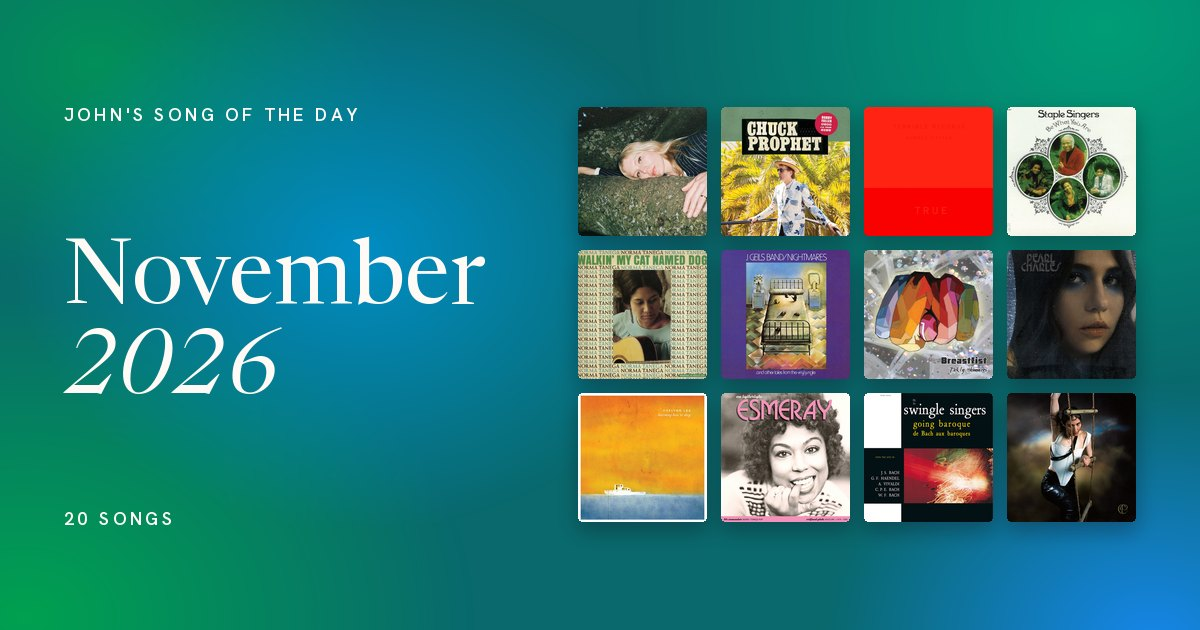
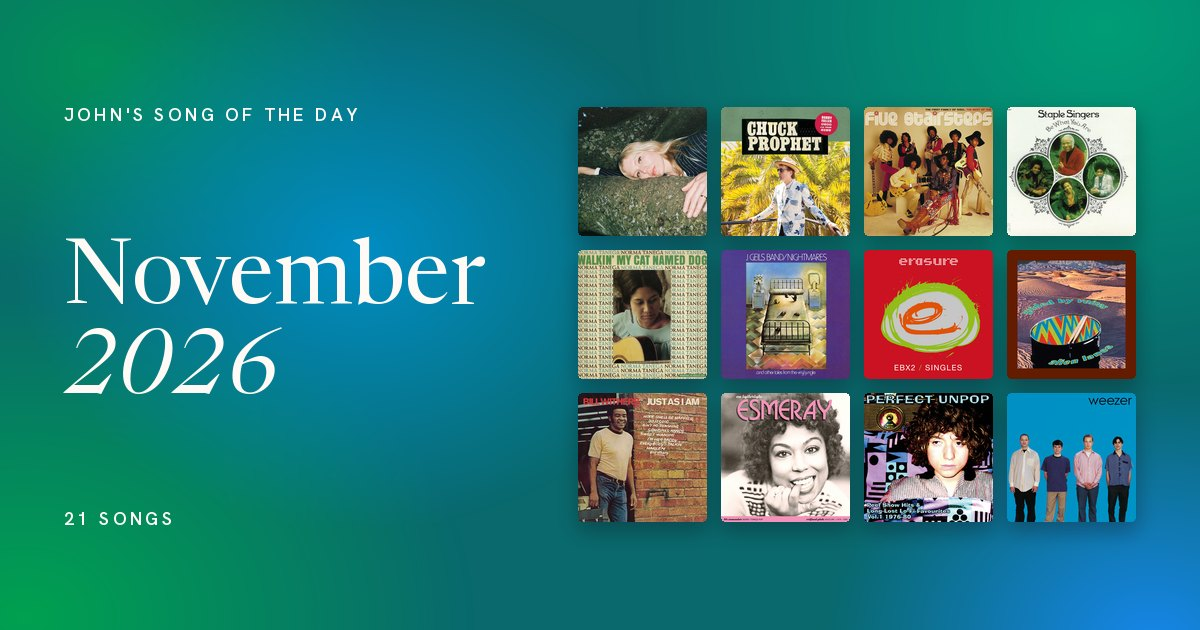
Song moods and genres: John's songs first

Changed region(s): [[0.7092, 0.1508, 0.9558, 0.8444], [0.4625, 0.6032, 0.6167, 0.8444], [0.0617, 0.8143, 0.0925, 0.8444]]

diff --git a/songs/today/index.html b/songs/today/index.html
@@ -3,24 +3,24 @@
 <head>
 <meta charset="utf-8">
 <meta name="viewport" content="width=device-width,initial-scale=1">
-<title>So Hot You&#x27;re Hurting My Feelings · John's Song of the Day</title>
-<meta name="description" content="Caroline Polachek · John&#x27;s Song of the Day, Friday 20 November 2026">
+<title>Buddy Holly · John's Song of the Day</title>
+<meta name="description" content="Weezer · John&#x27;s Song of the Day, Saturday 21 November 2026">
 <link rel="canonical" href="https://cooperking.github.io/songs/today/">
 <meta property="og:type" content="music.song">
 <meta property="og:site_name" content="John's Song of the Day">
-<meta property="og:title" content="So Hot You&#x27;re Hurting My Feelings">
-<meta property="og:description" content="Caroline Polachek · John&#x27;s Song of the Day, Friday 20 November 2026">
+<meta property="og:title" content="Buddy Holly">
+<meta property="og:description" content="Weezer · John&#x27;s Song of the Day, Saturday 21 November 2026">
 <meta property="og:url" content="https://cooperking.github.io/songs/today/">
-<meta property="og:image" content="https://cooperking.github.io/songs/20-11-2026/card.jpg">
-<meta property="og:image:secure_url" content="https://cooperking.github.io/songs/20-11-2026/card.jpg">
+<meta property="og:image" content="https://cooperking.github.io/songs/21-11-2026/card.jpg">
+<meta property="og:image:secure_url" content="https://cooperking.github.io/songs/21-11-2026/card.jpg">
 <meta property="og:image:type" content="image/jpeg">
 <meta property="og:image:width" content="1200">
 <meta property="og:image:height" content="630">
-<meta property="og:image:alt" content="So Hot You&#x27;re Hurting My Feelings by Caroline Polachek">
-<meta name="twitter:image" content="https://cooperking.github.io/songs/20-11-2026/card.jpg">
+<meta property="og:image:alt" content="Buddy Holly by Weezer">
+<meta name="twitter:image" content="https://cooperking.github.io/songs/21-11-2026/card.jpg">
 <meta name="twitter:card" content="summary_large_image">
-<meta name="twitter:title" content="So Hot You&#x27;re Hurting My Feelings">
-<meta name="twitter:description" content="Caroline Polachek · John&#x27;s Song of the Day, Friday 20 November 2026">
+<meta name="twitter:title" content="Buddy Holly">
+<meta name="twitter:description" content="Weezer · John&#x27;s Song of the Day, Saturday 21 November 2026">
 <meta name="theme-color" content="#09696d">
 <link rel="icon" type="image/png" sizes="96x96" href="https://cooperking.github.io/songs/favicon-96.png?v=2">
 <link rel="icon" type="image/png" sizes="192x192" href="https://cooperking.github.io/songs/icon-192.png?v=2">
@@ -28,6 +28,6 @@
 <script>if (!/bot|crawl|spider|preview|facebookexternalhit|facebot|whatsapp|telegram|slack|discord|linkedin|pinterest|embedly|iframely|skype|viber|signal|vkshare|redditbot|applebot|google|bing/i.test(navigator.userAgent)) location.replace("../" + location.search + "#today");</script>
 </head>
 <body style="font-family: Georgia, serif; padding: 24px;">
-<p><a href="../#today">So Hot You&#x27;re Hurting My Feelings by Caroline Polachek</a>, John's Song of the Day for Friday 20 November 2026.</p>
+<p><a href="../#today">Buddy Holly by Weezer</a>, John's Song of the Day for Saturday 21 November 2026.</p>
 </body>
 </html>

diff --git a/songs/21-11-2026/index.html b/songs/21-11-2026/index.html
@@ -1,0 +1,33 @@
+<!doctype html>
+<html lang="en">
+<head>
+<meta charset="utf-8">
+<meta name="viewport" content="width=device-width,initial-scale=1">
+<title>Buddy Holly · John's Song of the Day</title>
+<meta name="description" content="Weezer · John&#x27;s Song of the Day, Saturday 21 November 2026">
+<link rel="canonical" href="https://cooperking.github.io/songs/21-11-2026/">
+<meta property="og:type" content="music.song">
+<meta property="og:site_name" content="John's Song of the Day">
+<meta property="og:title" content="Buddy Holly">
+<meta property="og:description" content="Weezer · John&#x27;s Song of the Day, Saturday 21 November 2026">
+<meta property="og:url" content="https://cooperking.github.io/songs/21-11-2026/">
+<meta property="og:image" content="https://cooperking.github.io/songs/21-11-2026/card.jpg">
+<meta property="og:image:secure_url" content="https://cooperking.github.io/songs/21-11-2026/card.jpg">
+<meta property="og:image:type" content="image/jpeg">
+<meta property="og:image:width" content="1200">
+<meta property="og:image:height" content="630">
+<meta property="og:image:alt" content="Buddy Holly by Weezer">
+<meta name="twitter:image" content="https://cooperking.github.io/songs/21-11-2026/card.jpg">
+<meta name="twitter:card" content="summary_large_image">
+<meta name="twitter:title" content="Buddy Holly">
+<meta name="twitter:description" content="Weezer · John&#x27;s Song of the Day, Saturday 21 November 2026">
+<meta name="theme-color" content="#09696d">
+<link rel="icon" type="image/png" sizes="96x96" href="https://cooperking.github.io/songs/favicon-96.png?v=2">
+<link rel="icon" type="image/png" sizes="192x192" href="https://cooperking.github.io/songs/icon-192.png?v=2">
+<link rel="apple-touch-icon" sizes="180x180" href="https://cooperking.github.io/songs/apple-touch-icon.png?v=2">
+<script>if (!/bot|crawl|spider|preview|facebookexternalhit|facebot|whatsapp|telegram|slack|discord|linkedin|pinterest|embedly|iframely|skype|viber|signal|vkshare|redditbot|applebot|google|bing/i.test(navigator.userAgent)) location.replace("../" + location.search + "#21-11-2026");</script>
+</head>
+<body style="font-family: Georgia, serif; padding: 24px;">
+<p><a href="../#21-11-2026">Buddy Holly by Weezer</a>, John's Song of the Day for Saturday 21 November 2026.</p>
+</body>
+</html>

diff --git a/songs/11-2026/index.html b/songs/11-2026/index.html
@@ -4,12 +4,12 @@
 <meta charset="utf-8">
 <meta name="viewport" content="width=device-width,initial-scale=1">
 <title>November 2026 · John's Song of the Day</title>
-<meta name="description" content="20 songs for each day">
+<meta name="description" content="21 songs for each day">
 <link rel="canonical" href="https://cooperking.github.io/songs/11-2026/">
 <meta property="og:type" content="website">
 <meta property="og:site_name" content="John's Song of the Day">
 <meta property="og:title" content="November 2026">
-<meta property="og:description" content="20 songs for each day">
+<meta property="og:description" content="21 songs for each day">
 <meta property="og:url" content="https://cooperking.github.io/songs/11-2026/">
 <meta property="og:image" content="https://cooperking.github.io/songs/11-2026/card.jpg">
 <meta property="og:image:secure_url" content="https://cooperking.github.io/songs/11-2026/card.jpg">
@@ -26,6 +26,6 @@
 <script>if (!/bot|crawl|spider|preview|facebookexternalhit|facebot|whatsapp|telegram|slack|discord|linkedin|pinterest|embedly|iframely|skype|viber|signal|vkshare|redditbot|applebot|google|bing/i.test(navigator.userAgent)) location.replace("../" + location.search + "#11-2026");</script>
 </head>
 <body style="font-family: Georgia, serif; padding: 24px;">
-<p><a href="../#11-2026">November 2026</a>: 20 songs for each day</p>
+<p><a href="../#11-2026">November 2026</a>: 21 songs for each day</p>
 </body>
 </html>

diff --git a/songs/index.html b/songs/index.html
@@ -4,11 +4,11 @@
 <meta charset="utf-8">
 <meta name="sotd-build" content="bda6aaf01d7f">
 <meta name="viewport" content="width=device-width, initial-scale=1, viewport-fit=cover">
-<meta name="description" content="A song a day, 284 so far">
+<meta name="description" content="A song a day, 285 so far">
 <meta name="theme-color" content="#ec135b">
 <meta property="og:type" content="website">
 <meta property="og:title" content="John’s Song of the Day">
-<meta property="og:description" content="A song a day, 284 so far">
+<meta property="og:description" content="A song a day, 285 so far">
 <meta property="og:url" content="https://cooperking.github.io/songs/">
 <meta property="og:image" content="https://cooperking.github.io/songs/card.jpg">
 <meta property="og:image:type" content="image/jpeg">
